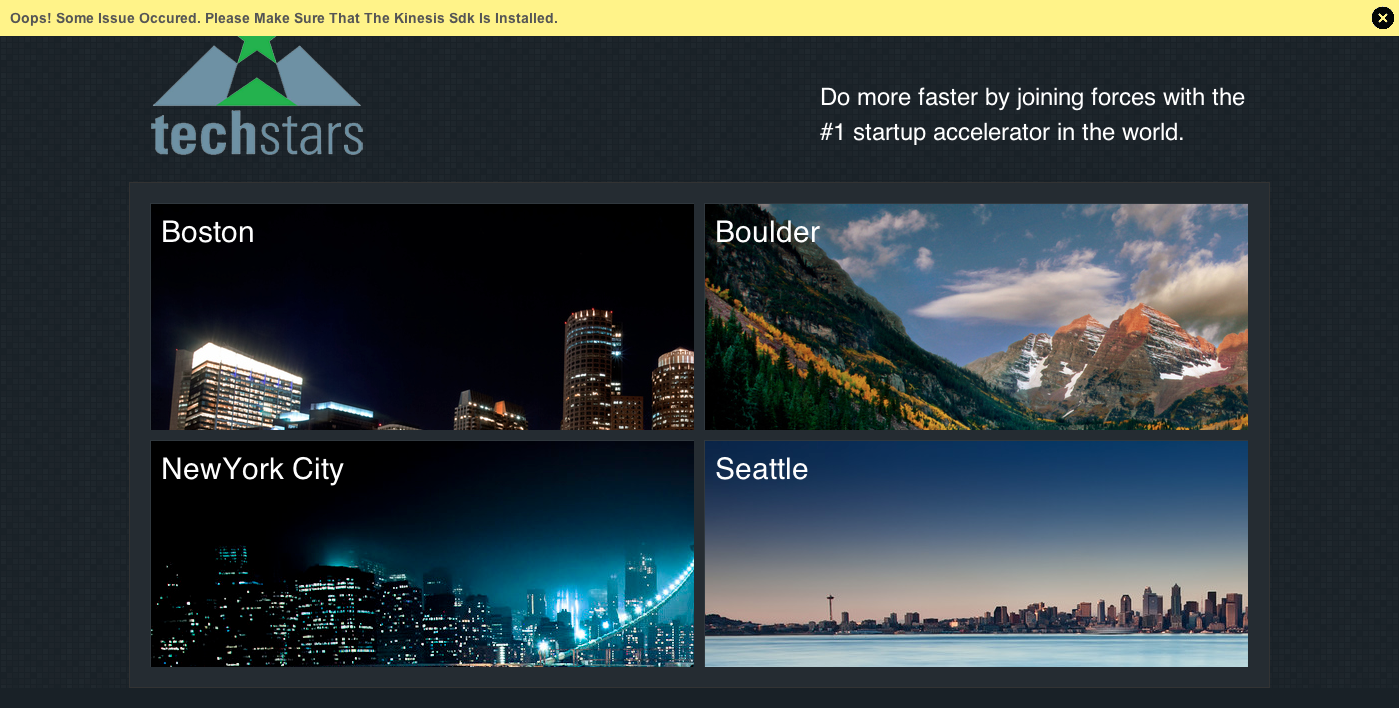
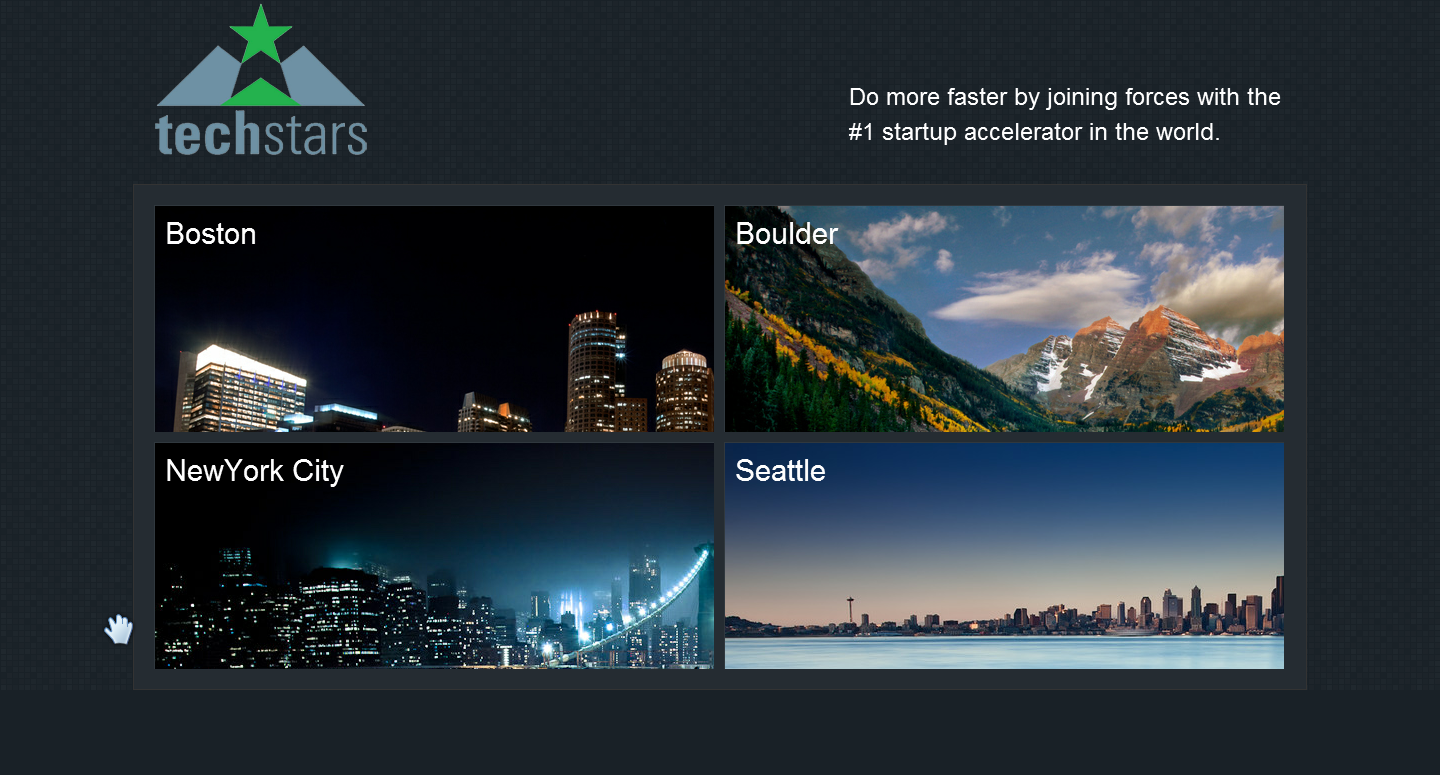
Added swipe down gesture to do grab

diff --git a/public/examples/Techstars/index.html b/public/examples/Techstars/index.html
@@ -47,7 +47,7 @@
   	<script>
 
       function movement(position) {
-        if (position.z < -0.5) { uploadScreenShot(); };
+        //if (position.z < -0.5) { uploadScreenShot(); };
       }
 
   	  $(function(){
@@ -59,6 +59,20 @@
 
       var kinesis = new Kinesis;
       Kinesis.cursor = movement;
+
+      function swipeDownControl(gesture) {
+        uploadScreenShot();
+      }
+
+      // create swipe down gesture
+      var downGesture         = new SwipeGestureListener("myswipeDown");
+      // call to action for swipe left
+      downGesture.toFire      = swipeDownControl;
+      // allowed joints for gesture
+      downGesture.joints      = [JointTypes.JointTypeHandLeft, JointTypes.JointTypeHandRight]; //both hands
+      // allowed direction for gesture
+      downGesture.directions  = [GestureDirections.GestureDirectionDown]; // down
+      kinesis.addGesture(downGesture);
     </script>
   </body>
 </html>

diff --git a/public/examples/Techstars/boulder.html b/public/examples/Techstars/boulder.html
@@ -139,6 +139,20 @@
 
       Kinesis.cursor = movement;
 
+      function swipeDownControl(gesture) {
+        uploadScreenShot();
+      }
+
+      // create swipe down gesture
+      var downGesture         = new SwipeGestureListener("myswipeDown");
+      // call to action for swipe left
+      downGesture.toFire      = swipeDownControl;
+      // allowed joints for gesture
+      downGesture.joints      = [JointTypes.JointTypeHandLeft, JointTypes.JointTypeHandRight]; //both hands
+      // allowed direction for gesture
+      downGesture.directions  = [GestureDirections.GestureDirectionDown]; // down
+      kinesis.addGesture(downGesture);
+
   	  $(function(){
         // wrap the gridHolder in a table and all the tileItems inside td.tile
         $("#gridHolder").wrapInner("<table cellspacing='5'  vertical-align='middle'></table>");
